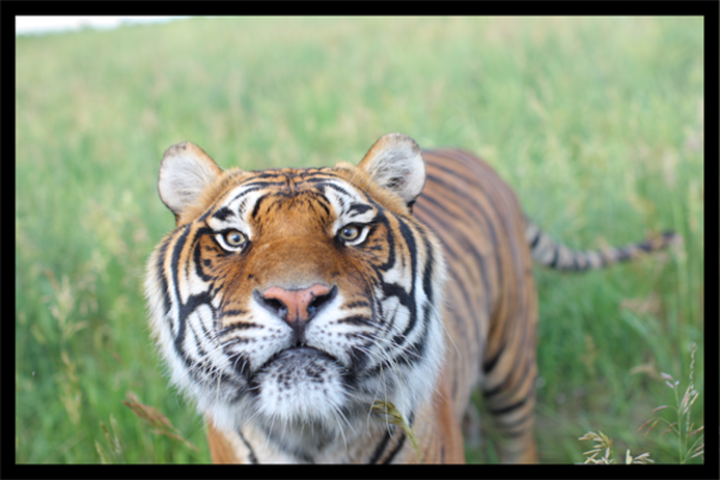
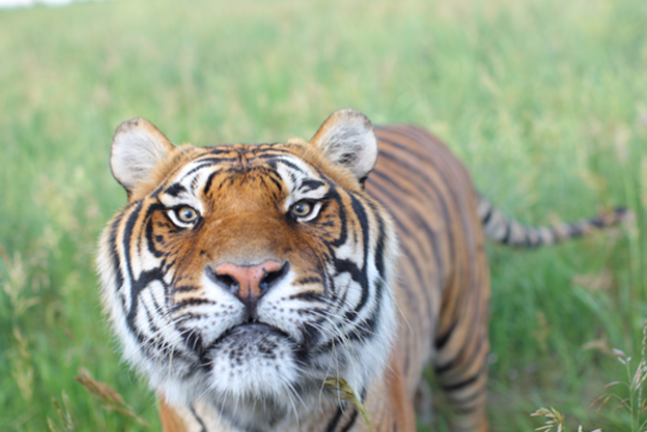
Add small tiger photo, adjust media queries

diff --git a/css/style.css b/css/style.css
@@ -1,6 +1,6 @@
 * {
 	box-sizing: border-box;
-	/*max-width: 900px;*/
+	/*max-width: 1600px;*/
 }
 
 main {
@@ -17,9 +17,11 @@ main {
 	width: 60%;
 }
 
-/*.content-wrapper h2 {
-	font-size: 1.8em;
-}*/
+.content-wrapper h2 {
+	font-size: 2.5em;
+	margin: 0;
+	color: #FFF;
+}
 
 .content-wrapper h4 {
 	margin: 5px 0;
@@ -45,6 +47,8 @@ main {
 
 #intro button:hover {
 	background-color: #242331;
+	border: 2px solid #40dd74;
+	color: #40dd74;
 }
 
 #intro img {
@@ -52,6 +56,8 @@ main {
 }
 
 article a {
+	display: flex;
+	flex-direction: column;
 	text-decoration: none;
 	color: white;
 }
@@ -61,10 +67,9 @@ article a {
 	display: flex;
 	align-items: center;
 	justify-content: center;
-	text-align: center;
+	/*text-align: center;*/
 	min-height: 150px;
 	min-width: 150px;
-	background-color: #EDC42F;
 }
 
 
@@ -100,18 +105,6 @@ article a {
 	background-color: #D4C17E;
 }
 
-/*.box1:hover,
-.box2:hover,
-.box6:hover,
-.box3:hover,
-.box4:hover,
-#intro:hover,
-.box5:hover,
-.box7:hover {
-
-}*/
-
-
 .photo-slider {
 	width: 40%;
 	min-width: 250px;
@@ -123,9 +116,10 @@ article a {
 .arrows {
 	display: flex;
 	justify-content: space-between;
-	width: 96%;
+	/*align-items: center;*/
 	height: 100vh;
 	margin: 0 auto;
+	padding: 0 10px;
 }
 
 .chevron {
@@ -133,8 +127,9 @@ article a {
 }
 
 .elipsis {
-	float: right;
-	padding-right: 15px;
+	position: absolute;
+	margin-right: 2%;
+  margin-left: 35%;
 }
 
 .elipsis img {
@@ -142,7 +137,7 @@ article a {
 }
 
 
-@media screen and (max-width: 800px) {
+@media screen and (max-width: 1080px) {
 
 	main {
 		flex-direction: column;
@@ -150,15 +145,35 @@ article a {
 	}
 
 	.content-wrapper {
+		height: 70vh;
 		width: 100%;
 	}
 
 	.photo-slider {
+		height: 30vh;
 		width: 100%;
+		background: url(../images/tiger-close.png) no-repeat;
+		background-size: cover;
+		background-position: center;
+		background-color: #FFF;
+	}
+
+	.elipsis {
+		margin-right: 2%;
+	  margin-left: 91%;
+	}
+
+	.arrows {
+		height: 30vh;
+		padding: 0 5px;
 	}
 }
 
 @media screen and (max-width: 600px) {
+
+	.content-wrapper {
+		height: 80vh;
+	}
 
 	.content-wrapper h2 {
 		font-size: 1.5em;
@@ -168,10 +183,31 @@ article a {
 		flex: 1 0 50%;
 		min-height: 150px;
 		min-width: 150px;
-		padding-top: 30px;
 	}
 
 	.box7 {
 		background-color: #8B745A;
+	}
+
+	.arrows {
+		height: 20vh;
+	}
+
+	.chevron {
+		width: 20px;
+	}
+
+	.elipsis {
+		margin-right: 5%;
+	  margin-left: 90%;	
+	}
+
+	.elipsis img {
+		width: 30px;
+		/*margin-left: 90%;*/
+	}
+
+	.photo-slider {
+		height: 20vh;
 	}
 }
